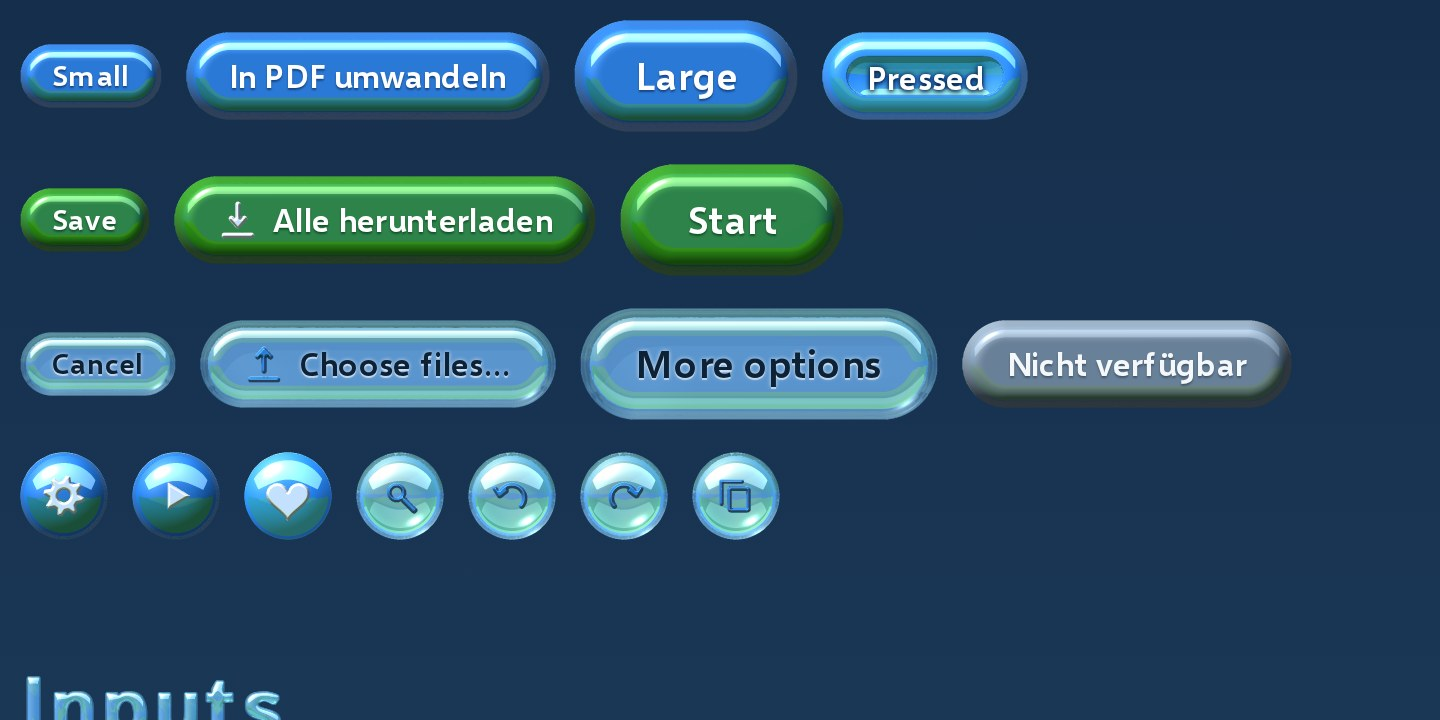
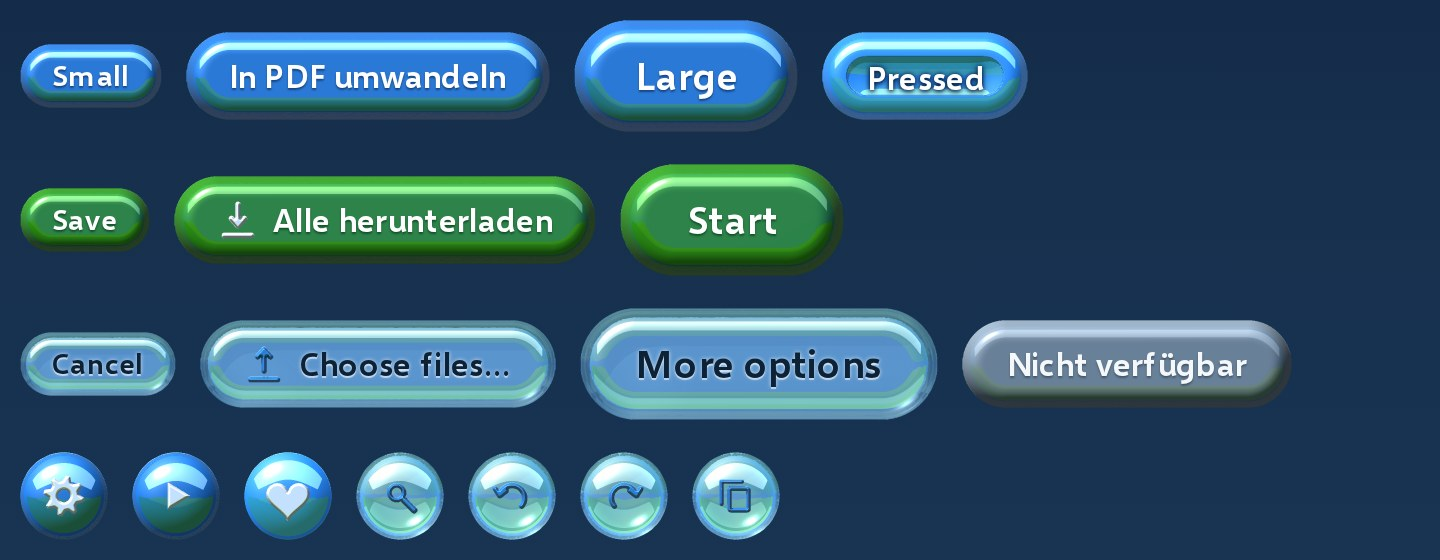
Showcase: drop intros that only describe what is on screen
Keep the lines that say something you cannot see (native elements underneath, the lens
working only in Chromium, the right-click menu, the 32 px minimum for titles). The before/after
images now crop to the button rows.

Claude-Session: https://claude.ai/code/session_01Eb7NfzvXEsLLBSVyBqPUp6

diff --git a/library/index.html b/library/index.html
@@ -116,7 +116,7 @@
 <main>
   <div class="hero">
     <h1 class="aer-display">Every button here was rendered in Bryce&nbsp;2</h1>
-    <p>Glossy controls for the web. Each one is a Bryce render with a meadow behind the camera, laid over plain HTML.</p>
+    <p>Laid over plain HTML elements, so forms, keyboards and screen readers work as usual.</p>
     <div class="row">
       <a class="aer-button aer-l" href="https://github.com/immineal/aerolith#use-it">Get started</a>
       <a class="aer-button aer-quiet aer-l" href="https://github.com/immineal/aerolith#how-its-made">How it's made</a>
@@ -125,7 +125,6 @@
 
   <section id="buttons" aria-labelledby="h-buttons">
     <h2 class="aer-display" id="h-buttons">Buttons</h2>
-    <p>Aqua, green and clear glass, at 32, 44 and 56&nbsp;px. Pressed buttons sink in.</p>
     <div class="stack">
       <div class="row">
         <button class="aer-button aer-s">Small</button>
@@ -158,7 +157,6 @@
 
   <section id="inputs" aria-labelledby="h-inputs">
     <h2 class="aer-display" id="h-inputs">Inputs</h2>
-    <p>The browser's own controls, under every skin.</p>
     <div class="grid">
       <div class="aer-panel stack">
         <label class="aer-label">File name <input class="aer-field" value="report-2026.pdf"></label>
@@ -208,7 +206,6 @@
 
   <section id="feedback" aria-labelledby="h-feedback">
     <h2 class="aer-display" id="h-feedback">Feedback</h2>
-    <p>Progress fills a glass tube. The spinner is eight separate renders.</p>
     <div class="grid">
       <div class="aer-card stack">
         <label class="aer-label">Converting… <progress class="aer-progress" max="100" value="62">62%</progress></label>
@@ -234,10 +231,10 @@
 
   <section id="surfaces" aria-labelledby="h-surfaces">
     <h2 class="aer-display" id="h-surfaces">Surfaces</h2>
-    <p>Frosted on light pages, smoked on dark ones. In Chrome and Edge the lens bends what's behind its rim.</p>
+    <p>The lens bends what's behind its rim in Chrome and Edge only.</p>
     <div class="grid">
       <div class="stack">
-        <div class="aer-panel" data-aer-menu="menu"><h3 style="margin-top:0">Panel</h3><p style="margin:0">Big frosted pane for grouping a tool's settings. Right-click or long-press it for a menu.</p></div>
+        <div class="aer-panel" data-aer-menu="menu"><h3 style="margin-top:0">Panel</h3><p style="margin:0">Right-click or long-press here for a menu.</p></div>
         <div class="row">
           <button class="aer-button" id="dialog-btn">Open dialog</button>
           <button class="aer-button aer-quiet" popovertarget="menu" id="menu-btn"><span class="aer-icon aer-icon-menu" aria-hidden="true"></span> Menu</button>
@@ -257,15 +254,14 @@
     </div>
     <h3>Before / after</h3>
     <div class="aer-compare" style="max-inline-size: 720px; border-radius: 14px">
-      <img src="assets/compare-light.jpg" alt="The showcase in light mode" width="1440" height="720">
-      <img src="assets/compare-dark.jpg" alt="The same view in dark mode" width="1440" height="720">
+      <img src="assets/compare-light.jpg" alt="Buttons in light mode" width="1440" height="560">
+      <img src="assets/compare-dark.jpg" alt="Buttons in dark mode" width="1440" height="560">
       <input type="range" min="0" max="100" value="50" aria-label="Reveal dark mode">
     </div>
   </section>
 
   <section id="icons" aria-labelledby="h-icons">
     <h2 class="aer-display" id="h-icons">Icons</h2>
-    <p>35 icons, rendered at 24 and 16&nbsp;px. Aqua on their own, pearl on buttons.</p>
     <span class="on-aqua" aria-hidden="true"><span class="aer-icon aer-pearl aer-icon-heart"></span><span class="aer-icon aer-pearl aer-icon-play"></span><span class="aer-icon aer-pearl aer-icon-gear"></span></span>
     <ul class="icons" style="margin-top: var(--aer-space-4)">
       <li><span class="aer-icon aer-icon-heart" aria-hidden="true"></span><span class="aer-icon aer-s aer-icon-heart" aria-hidden="true"></span><span class="aer-icon aer-pearl aer-icon-heart" aria-hidden="true"></span><code>heart</code></li>
@@ -309,7 +305,7 @@
 
   <section id="type" aria-labelledby="h-type">
     <h2 class="aer-display" id="h-type">Type</h2>
-    <p>Titles use Aerolith Display, a colour font of rendered letters, from 32&nbsp;px up. Body text uses Selawik or Istok Web.</p>
+    <p>Titles are real, selectable text in a colour font. Use it from 32&nbsp;px up.</p>
     <div class="type-row">
       <p class="aer-display aer-aqua">Aqua</p>
       <span class="on-sky"><span class="aer-display aer-glass" style="font-size: 4rem">Glass</span></span>
